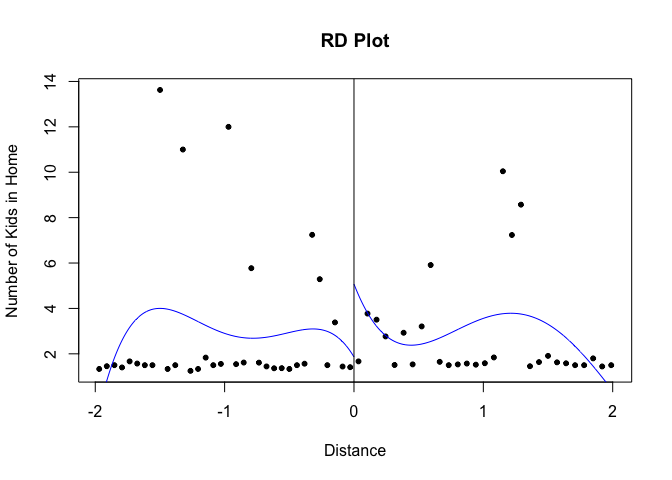
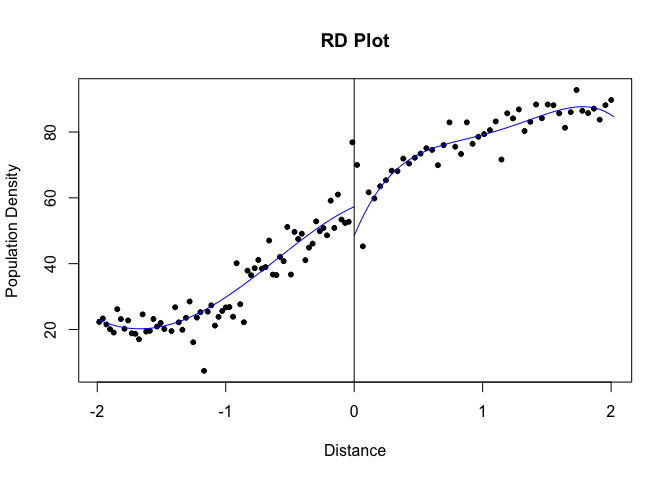
figure 4

diff --git a/rd_bikeshare.md b/rd_bikeshare.md
@@ -260,7 +260,7 @@ table(rdt1$dAssign, rdt1$bixiNbhd)
   1 270 601
 ```
 
-### 2B. Season 2
+### 2C. Season 2
 
 ```r
 fuzzy_plot3 <- ggplot(rdt2, aes(x = assignment, y = veloTotMin)) + geom_point(aes(colour = factor(bixiNbhd)), 
@@ -1230,6 +1230,68 @@ rho (h/b)                    0.727       0.634
 
 # 6.	Examined whether jumps existing for population density and number of kids in the home.
 
+
+## Figure 4. Assignment by population density variable scatterplot with linear and LOESS regression functions
+
+### 4A. Pre-implementation
+
+
+```r
+rdPopPlot1 <- ggplot(rdt0, aes(x = assignment, y = popDens, fill = factor(dAssign))) + 
+    geom_point(aes(colour = factor(dAssign)), alpha = 1/2) + geom_smooth(aes(fill = factor(dAssign)), 
+    method = "lm", se = FALSE, colour = "black") + geom_smooth(aes(fill = factor(dAssign)), 
+    linetype = "solid", colour = "#FFFFFF") + geom_vline(xintercept = 0) + scale_colour_manual(values = c("black", 
+    "#333333")) + scale_fill_manual(values = c("black", "#333333")) + theme(axis.line = element_line(colour = "black"), 
+    panel.background = element_blank(), axis.title = element_text(size = 16), 
+    text = element_text(size = 14)) + xlab("Distance") + ylab("Population Density")
+print(rdPopPlot1)
+```
+
+![](rd_bikeshare_files/figure-html/unnamed-chunk-74-1.png)<!-- -->
+
+```r
+ggsave("rdPopPlot1.jpg", rdPlot1, dpi = 300)
+```
+
+### 3B. Season 1
+
+```r
+rdPopPlot1t1 <- ggplot(rdt1, aes(x = assignment, y = popDens, fill = factor(dAssign))) + 
+    geom_point(aes(colour = factor(dAssign)), alpha = 1/2) + geom_smooth(aes(fill = factor(dAssign)), 
+    method = "lm", se = FALSE, colour = "black") + geom_smooth(aes(fill = factor(dAssign)), 
+    linetype = "solid", colour = "#FFFFFF") + geom_vline(xintercept = 0) + scale_colour_manual(values = c("black", 
+    "#333333")) + scale_fill_manual(values = c("black", "#333333")) + theme(axis.line = element_line(colour = "black"), 
+    panel.background = element_blank(), axis.title = element_text(size = 16), 
+    text = element_text(size = 14)) + xlab("Distance") + ylab("Population Density")
+print(rdPopPlot1t1)
+```
+
+![](rd_bikeshare_files/figure-html/unnamed-chunk-75-1.png)<!-- -->
+
+```r
+ggsave("rdPopPlot1t1.jpg", rdPlot1t1, dpi = 300)
+```
+
+### 3C. Season 2
+
+
+```r
+rdPopPlot1t2 <- ggplot(rdt2, aes(x = assignment, y = popDens, fill = factor(dAssign))) + 
+    geom_point(aes(colour = factor(dAssign)), alpha = 1/2) + geom_smooth(aes(fill = factor(dAssign)), 
+    method = "lm", se = FALSE, colour = "black") + geom_smooth(aes(fill = factor(dAssign)), 
+    linetype = "solid", colour = "#FFFFFF") + geom_vline(xintercept = 0) + scale_colour_manual(values = c("black", 
+    "#333333")) + scale_fill_manual(values = c("black", "#333333")) + theme(axis.line = element_line(colour = "black"), 
+    panel.background = element_blank(), axis.title = element_text(size = 16), 
+    text = element_text(size = 14)) + xlab("Distance") + ylab("Population Density")
+print(rdPopPlot1t2)
+```
+
+![](rd_bikeshare_files/figure-html/unnamed-chunk-76-1.png)<!-- -->
+
+```r
+ggsave("rdPopPlot1t2.jpg", rdPlot1t2, dpi = 300)
+```
+
 ### Pre-Implementation
 
 #### Pre-Implementation - Population Density
@@ -1239,9 +1301,7 @@ rdplot(y = rdt0$popDens, x = rdt0$assignment, c = 0, y.label = "Population Densi
     x.label = "Distance")
 ```
 
-![](rd_bikeshare_files/figure-html/unnamed-chunk-74-1.png)<!-- -->
-
-  
+![](rd_bikeshare_files/figure-html/unnamed-chunk-77-1.png)<!-- -->
 
 
 ```r
@@ -1266,8 +1326,6 @@ BW est. (h)                  0.190       0.190
 BW bias (b)                  0.396       0.396
 rho (h/b)                    0.481       0.481
 ```
-
-  
 
 
 ```r
@@ -1294,8 +1352,6 @@ BW bias (b)                  0.662       0.302
 rho (h/b)                    0.469       0.373
 ```
 
-  
-
 #### Pre-Implementation - Number of Kids
 
 ```r
@@ -1303,9 +1359,7 @@ rdplot(y = rdt0$kids, x = rdt0$assignment, c = 0, y.label = "Number of Kids in H
     x.label = "Distance")
 ```
 
-![](rd_bikeshare_files/figure-html/unnamed-chunk-77-1.png)<!-- -->
-
-  
+![](rd_bikeshare_files/figure-html/unnamed-chunk-80-1.png)<!-- -->
 
 
 ```r
@@ -1330,8 +1384,6 @@ BW est. (h)                  0.642       0.642
 BW bias (b)                  0.526       0.526
 rho (h/b)                    1.221       1.221
 ```
-
-  
 
 
 ```r
@@ -1358,8 +1410,6 @@ BW bias (b)                  1.002       0.291
 rho (h/b)                    0.652       0.447
 ```
 
-  
-
 ### Season 1
 
 #### Season 1 - Population Density
@@ -1369,9 +1419,7 @@ rdplot(y = rdt1$popDens, x = rdt1$assignment, c = 0, y.label = "Population Densi
     x.label = "Distance")
 ```
 
-![](rd_bikeshare_files/figure-html/unnamed-chunk-80-1.png)<!-- -->
-
-  
+![](rd_bikeshare_files/figure-html/unnamed-chunk-83-1.png)<!-- -->
 
 
 ```r
@@ -1396,8 +1444,6 @@ BW est. (h)                  0.309       0.309
 BW bias (b)                  0.676       0.676
 rho (h/b)                    0.458       0.458
 ```
-
-  
 
 
 ```r
@@ -1424,8 +1470,6 @@ BW bias (b)                  1.007       0.580
 rho (h/b)                    0.567       0.405
 ```
 
-  
-
 #### Season 1 - Number of Kids
 
 ```r
@@ -1433,9 +1477,7 @@ rdplot(y = rdt1$kids, x = rdt1$assignment, c = 0, y.label = "Number of Kids in H
     x.label = "Distance")
 ```
 
-![](rd_bikeshare_files/figure-html/unnamed-chunk-83-1.png)<!-- -->
-
- 
+![](rd_bikeshare_files/figure-html/unnamed-chunk-86-1.png)<!-- -->
 
 
 ```r
@@ -1460,8 +1502,6 @@ BW est. (h)                  0.258       0.258
 BW bias (b)                  0.568       0.568
 rho (h/b)                    0.455       0.455
 ```
-
- 
 
 
 ```r
@@ -1488,20 +1528,17 @@ BW bias (b)                  0.491       0.906
 rho (h/b)                    0.468       0.523
 ```
 
- 
-
 ### Season 2
 
 #### Season 2 - Population Density
+
 
 ```r
 rdplot(y = rdt2$popDens, x = rdt2$assignment, c = 0, y.label = "Population Density", 
     x.label = "Distance")
 ```
 
-![](rd_bikeshare_files/figure-html/unnamed-chunk-86-1.png)<!-- -->
-
- 
+![](rd_bikeshare_files/figure-html/unnamed-chunk-89-1.png)<!-- -->
 
 
 ```r
@@ -1559,9 +1596,7 @@ rdplot(y = rdt2$kids, x = rdt2$assignment, c = 0, y.label = "Number of Kids in H
     x.label = "Distance")
 ```
 
-![](rd_bikeshare_files/figure-html/unnamed-chunk-89-1.png)<!-- -->
-
- 
+![](rd_bikeshare_files/figure-html/unnamed-chunk-92-1.png)<!-- -->
 
 
 ```r
@@ -1586,8 +1621,6 @@ BW est. (h)                  0.331       0.331
 BW bias (b)                  0.731       0.731
 rho (h/b)                    0.453       0.453
 ```
-
- 
 
 
 ```r
@@ -1614,7 +1647,6 @@ BW bias (b)                  0.597       0.726
 rho (h/b)                    0.208       0.534
 ```
 
-# The end
 
 
 
